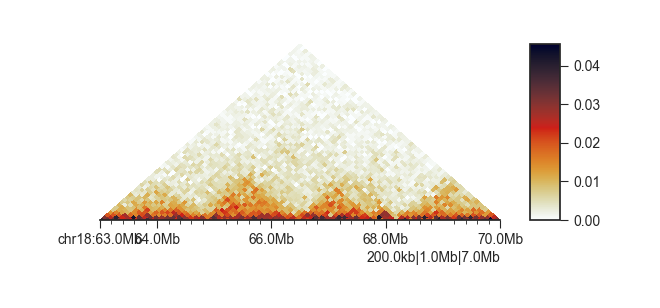
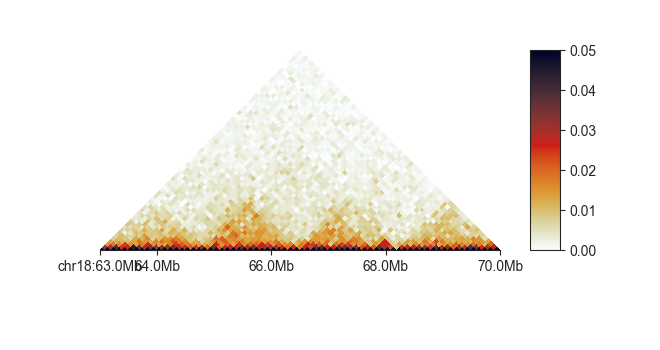
Mahor documentation expansion

diff --git a/kaic-doc/api/analyse/code/oe_example_code.py b/kaic-doc/api/analyse/code/oe_example_code.py
@@ -1,0 +1,51 @@
+# start snippet oe setup
+import kaic
+import matplotlib.pyplot as plt
+
+hic_500kb = kaic.load("output/hic/binned/kaic_example_500kb.hic")
+# end snippet oe setup
+
+hic_500kb.close()
+# start snippet oe append
+hic_500kb = kaic.load("output/hic/binned/kaic_example_500kb.hic", mode='a')
+# end snippet oe append
+
+
+# start snippet oe basic
+intra_expected, intra_expected_chromosome, inter_expected = hic_500kb.expected_values()
+# end snippet oe basic
+
+# start snippet oe ddplot
+# obtain bin distances
+bin_size = hic_500kb.bin_size
+distance = list(range(0, bin_size * len(intra_expected_chromosome['chr19']), bin_size))
+
+# plot expected values
+fig, ax = plt.subplots()
+plt.plot(distance, intra_expected_chromosome['chr19'])
+ax.set_xscale('log')
+ax.set_yscale('log')
+ax.set_xlabel("Distance")
+ax.set_ylabel("Average contacts")
+plt.show()
+# end snippet oe ddplot
+fig.savefig('../kaic-doc/api/analyse/images/oe_500kb.png')
+
+
+# start snippet oe nonorm
+intra_expected_nonorm, intra_expected_chromosome_nonorm, inter_expected_nonorm = hic_500kb.expected_values(norm=False)
+
+# obtain bin distances
+bin_size = hic_500kb.bin_size
+distance = list(range(0, bin_size * len(intra_expected_nonorm), bin_size))
+
+# plot expected values
+fig, ax = plt.subplots()
+plt.plot(distance, intra_expected_nonorm)
+ax.set_xscale('log')
+ax.set_yscale('log')
+ax.set_xlabel("Distance")
+ax.set_ylabel("Average contacts (not normalised)")
+plt.show()
+# end snippet oe nonorm
+fig.savefig('../kaic-doc/api/analyse/images/oe_500kb_nonorm.png')

diff --git a/kaic-doc/api/analyse/code/ab_example_code.py b/kaic-doc/api/analyse/code/ab_example_code.py
@@ -1,0 +1,46 @@
+# start snippet ab setup
+import kaic
+import kaic.plotting as klot
+import matplotlib.pyplot as plt
+
+hic_1mb = kaic.load("output/hic/binned/kaic_example_1mb.hic")
+# end snippet ab setup
+
+
+# start snippet ab matrix
+ab = kaic.ABCompartmentMatrix.from_hic(hic_1mb)
+# end snippet ab matrix
+
+# start snippet ab subset
+ab_chr18 = ab.matrix(('chr18', 'chr18'))
+# end snippet ab subset
+
+# start snippet ab klot-correlation
+fig, ax = plt.subplots()
+mp = klot.SquareMatrixPlot(ab, ax=ax,
+                           norm='lin', colormap='RdBu_r',
+                           vmin=-1, vmax=1,
+                           draw_minor_ticks=False)
+mp.plot('chr18')
+plt.show()
+# end snippet ab klot-correlation
+fig.savefig('../kaic-doc/api/analyse/images/ab_1mb_correlation.png')
+
+
+# start snippet ab ev
+ev = ab.eigenvector()
+# end snippet ab ev
+
+# start snippet ab gc-ev
+gc_ev = ab.eigenvector(genome='hg19_chr18_19.fa', force=True)
+# end snippet ab gc-ev
+
+
+# start snippet ab plot-ev
+fig, ax = plt.subplots()
+lp = klot.LinePlot(ab)
+lp.plot('chr18')
+plt.show()
+# end snippet ab plot-ev
+fig.savefig('../kaic-doc/api/analyse/images/ab_1mb_ev.png')
+

diff --git a/kaic-doc/api/analyse/compartments.rst b/kaic-doc/api/analyse/compartments.rst
@@ -1,0 +1,79 @@
+.. _api_compartments:
+
+
+###############
+AB compartments
+###############
+
+The following steps assume that you ran the ``kaic auto`` command in :ref:`example-kaic-auto`.
+Additionally, we set up the Python session like this:
+
+.. literalinclude:: code/ab_example_code.py
+    :language: python
+    :start-after: start snippet ab setup
+    :end-before: end snippet ab setup
+
+AB correlation matrices can very easily be obtained from Hi-C files using the
+:func:`~kaic.architecture.compartments.ABCompartmentMatrix.from_hic` function:
+
+.. literalinclude:: code/ab_example_code.py
+    :language: python
+    :start-after: start snippet ab matrix
+    :end-before: end snippet ab matrix
+
+The ``ab`` object acts like any Kai-C matrix (see :ref:`matrix_interface`), which means you
+can query and subset the data any way you like. For example, to get the correlation matrix
+of chromosome 18:
+
+.. literalinclude:: code/ab_example_code.py
+    :language: python
+    :start-after: start snippet ab subset
+    :end-before: end snippet ab subset
+
+And to visualise the matrix:
+
+.. literalinclude:: code/ab_example_code.py
+    :language: python
+    :start-after: start snippet ab klot-correlation
+    :end-before: end snippet ab klot-correlation
+
+.. image:: images/ab_1mb_correlation.png
+
+
+############
+Eigenvectors
+############
+
+The AB correlation matrix eigenvector (EV) is used to determine if a region is in the active or
+the inactive compartment. It's calculation is very straightforward:
+
+.. literalinclude:: code/ab_example_code.py
+    :language: python
+    :start-after: start snippet ab ev
+    :end-before: end snippet ab ev
+
+:func:`~kaic.architecture.compartments.ABCompartmentMatrix.eigenvector` returns a numpy
+array with one entry per region in the AB correlation matrix (you can retrieve a matching
+list of regions with :func:`~kaic.architecture.compartments.ABCompartmentMatrix.regions`).
+You can also retrieve only the EV entries for a specific region using the ``sub_region``
+argument, but note that the calculation is always performed on the entire genome first
+to avoid biases from subsetting.
+
+.. warning::
+
+   Positive EV entries do not automatically mean a region is in the A compartment. In fact,
+   if positive or negative entries are representing the A compartment is dependent on
+   the implementation of PCA on the platform you are using. Therefore we strongly recommend
+   using additional biological information to determine the correspondence between EV entry
+   sign and compartment.
+
+   One option implemented in Kai-C is to use GC content as a proxy for activity, as GC-rich
+   regions have been shown to be associated with the active compartment. Kai-C implements the
+   use of a genomic FASTA file, to calculate GC content and then choose the EV sign so that
+   positive entries correspond to A, and negative entries to the B compartment.
+
+   .. literalinclude:: code/ab_example_code.py
+       :language: python
+       :start-after: start snippet ab gc-ev
+       :end-before: end snippet ab gc-ev
+

diff --git a/kaic-doc/api/analyse/oe.rst b/kaic-doc/api/analyse/oe.rst
@@ -1,0 +1,63 @@
+.. _api_oe:
+
+#############################
+Expected and O/E calculations
+#############################
+
+The following steps assume that you ran the ``kaic auto`` command in :ref:`example-kaic-auto`.
+Additionally, we set up the Python session like this:
+
+.. literalinclude:: code/oe_example_code.py
+    :language: python
+    :start-after: start snippet oe setup
+    :end-before: end snippet oe setup
+
+:class:`~kaic.matrix.RegionMatrixContainer` objects (see :ref:`here <matrix_interface>`) have a builtin
+function to calculate expected values from existing matrix data called
+:func:`~kaic.matrix.RegionMatrixContainer.expected_values`. This function calculates and returns
+intra-chromosomal, intra-chromosomal per chromosome, and inter-chromosomal expected values.
+
+.. literalinclude:: code/oe_example_code.py
+    :language: bash
+    :start-after: start snippet oe basic
+    :end-before: end snippet oe basic
+
+Here, ``intra_expected`` is a list of average (/expected) contact values, where the position of
+the value in the list corresponds to the separation between genomic regions in bins.
+``intra_expected_chromosome`` is a dictionary with chromosome names as keys, and an expected
+value list as value calculated on a per-chromosome basis. ``inter_expected`` is a single, average
+inter-chromosomal contact value.
+
+When running the :func:`~kaic.matrix.RegionMatrixContainer.expected_values` function on a matrix
+opened in read-only mode, you will receive a warning that the values cannot be save to the object.
+This means, the expected values will be recalculated every time they are needed in downstream
+analyses. You can ensure the values are saved to the object by opening the matrix in "append" mode:
+
+.. literalinclude:: code/oe_example_code.py
+    :language: python
+    :start-after: start snippet oe append
+    :end-before: end snippet oe append
+
+The expected values are typically plotted on a log-log scale, as illustrated here using chromosome 19:
+
+.. literalinclude:: code/oe_example_code.py
+    :language: python
+    :start-after: start snippet oe ddplot
+    :end-before: end snippet oe ddplot
+
+.. image:: images/oe_500kb.png
+
+Note: as Hi-C matrices are normalised on a per-chromosome basis in Kai-C by default, it would be misleading
+to plot the overall normalised intra-chromosomal expected values, or to use them for downstream analysis.
+We can, however, also calculate the unnormalised expected values easily enough:
+
+.. literalinclude:: code/oe_example_code.py
+    :language: python
+    :start-after: start snippet oe nonorm
+    :end-before: end snippet oe nonorm
+
+.. image:: images/oe_500kb_nonorm.png
+
+Expected values rarely need to be calculated explicitly in Kai-C analysis functions, but will be calculated
+(or retrieved) on demand whenever necessary. To obtain observed/expected matrices, for example, please
+refer to :ref:`matrix_interface`.

diff --git a/kaic-doc/getting_started.rst b/kaic-doc/getting_started.rst
@@ -149,7 +149,7 @@ From the examples folder, run:
 
    kaic auto SRR4271982_chr18_19_1.fastq.gzip SRR4271982_chr18_19_2.fastq.gzip output/ \
              -g hg19_chr18_19.fa -i hg19_chr18_19/hg19_chr18_19 -n kaic_example -t 4 -r HindIII \
-             --run-with test
+             --split-ligation-junction -q 30 --run-with test
 
 The ``--run-with test`` argument causes ``kaic`` to only print the commands it would execute, but
 to exit before running any processing steps. Use this to review the pipeline and ensure you chose
@@ -170,7 +170,7 @@ We can plot the newly generated Hi-C maps easily using the ``klot`` command. Sim
 
 .. code:: bash
 
-   klot chr18:63mb-70mb -p triangular -r output/hic/binned/kaic_example_100kb.hic
+   klot chr18:63mb-70mb -p triangular -vmax 0.05 output/hic/binned/kaic_example_100kb.hic
 
 This will plot the region 63-70Mb of chromosome 18 in the familiar Hi-C plot.
 Note that this dataset is very small and hence the quality of the matrix not

diff --git a/kaic-doc/api/analyse.rst b/kaic-doc/api/analyse.rst
@@ -6,3 +6,9 @@ Analyse Hi-C matrices using the API
 
 In :ref:`analyse_hic` we analyses a Hi-C matrix using command line tools. Here,
 we will accomplish the same using only the Python API.
+
+.. toctree::
+   :maxdepth: 1
+
+   Expected values and O/E matrices <analyse/oe>
+   AB compartments <analyse/compartments>
